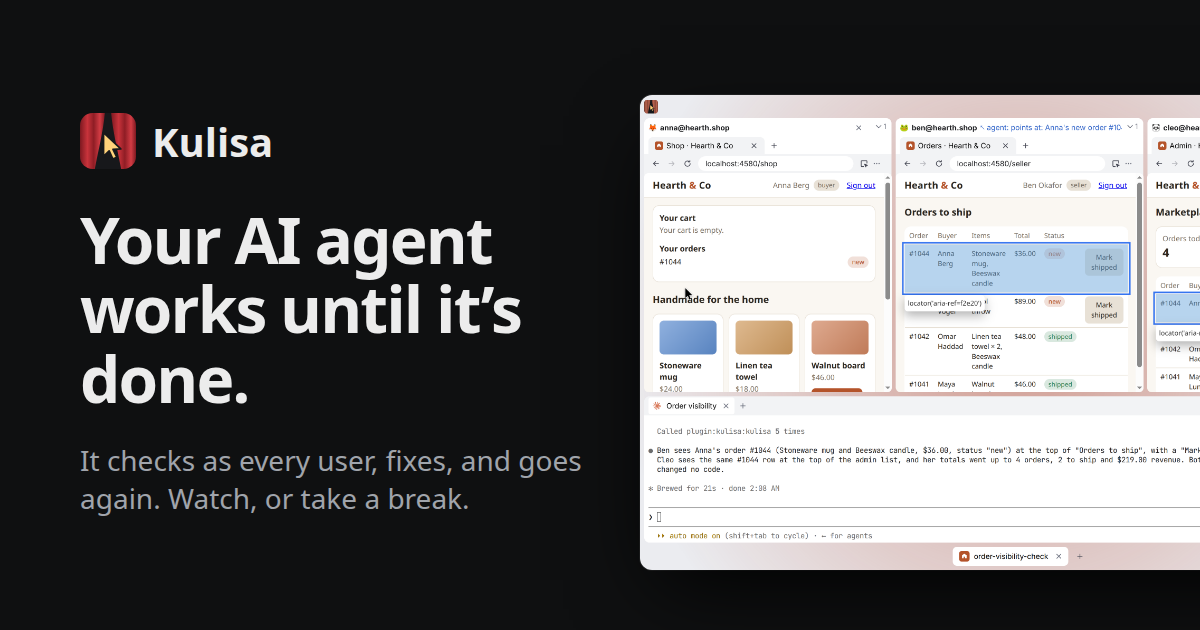
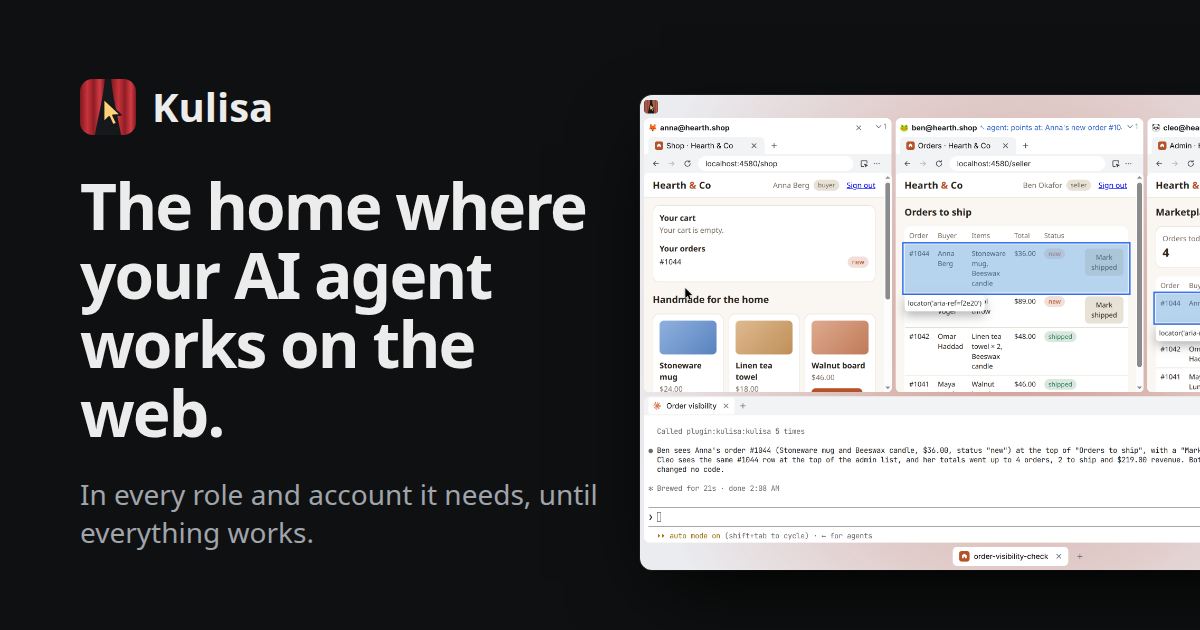
Search: hero pitch, title and description in the same words; the app and its FAQ as structured data; /llms.txt
- Hero: "Kulisa is the home where your AI agent works on the web." and the sub-line; the same words in <title>,
  the description and on the social card (og.png re-rendered)
- Structured data on the main page: SoftwareApplication (version and download from the latest release,
  screenshot, features, GitHub) and FAQPage; two FAQ questions in the words people search with
- /llms.txt: the page as plain text for AI assistants, built from the same content
- Section headings say in plain words what the metaphor says; the latest release is asked once per build
- CLAUDE.md records the pitch as the author's decision (2026-10-15); README on search engines and AI assistants

Changed region(s): [[0.0617, 0.1206, 0.4933, 0.6937], [0.0617, 0.7238, 0.4933, 0.8746]]

diff --git a/src/content/site.ts b/src/content/site.ts
@@ -31,11 +31,13 @@ export interface Feature extends Media {
   wide?: boolean;
 }
 
+// What a search engine shows (and an AI assistant reads): what Kulisa is, in plain words; the page's heading says the
+// same (hero), so a visitor from a search finds what they clicked.
 export const meta = {
-  title: 'Kulisa — your AI agent works until it’s done',
+  title: 'Kulisa — the home where your AI agent works on the web',
   description:
-    'Your AI agent works in your signed-in browsers, side by side: it checks the result as every user and fixes ' +
-    'until it works. Watch, or take a break. Free for Windows and Linux; macOS soon.',
+    'Your AI agent works in every role and account it needs, until everything works. Watch every step, or take a ' +
+    'break.',
 };
 
 export const links = {
@@ -62,11 +64,8 @@ export const downloads: { id: string; os: 'macos' | 'windows' | 'linux'; name: s
 export const logo = { mark: true };
 
 export const hero = {
-  pitch: 'Your AI agent works until it’s done. Watch every step, or take a break.',
-  sub:
-    'Kulisa puts several browsers side by side in one window, each signed in as a different person, and an AI agent ' +
-    'of your choice to work in them. It does the work, checks the result as every user — the buyer and the seller, ' +
-    'the sender and the receiver, the admin and the user — fixes what’s wrong, and goes again until it works.',
+  pitch: 'Kulisa is the home where your AI agent works on the web.',
+  sub: 'In every role and account it needs, until everything works. Watch every step, or take a break.',
   media: {
     image: 'hero-window.png',
     alt: 'The Kulisa window: a shop open as a buyer, a seller and an admin side by side. The agent placed an order as the buyer, ' +
@@ -238,6 +237,14 @@ export const faq = [
   {
     q: 'Is it free?',
     a: 'Yes. Kulisa is free.',
+  },
+  {
+    q: 'Can an AI agent test my web app as several users?',
+    a: 'Yes, that is what Kulisa is made for. Tell Claude Code or Codex what to build or check: it acts as one profile and checks the result as another (a message sent by one person must arrive for the other; an order placed by the buyer must show up for the seller), fixes what’s wrong, and checks again. You watch every step in the panes, or take a break.',
+  },
+  {
+    q: 'Can I be signed in to several accounts of one site at once?',
+    a: 'Yes. Each profile is a separate browser with its own sign-ins and cookies, so one site can be open as several accounts side by side, in one window: a buyer and a seller, an admin and a user, several clients’ accounts. You sign in to each once, by hand, and it stays signed in after a restart.',
   },
   {
     q: 'How do I install it?',

diff --git a/src/pages/llms.txt.ts b/src/pages/llms.txt.ts
@@ -1,0 +1,56 @@
+// /llms.txt (llmstxt.org): the page in plain text for AI assistants and their crawlers, built from the same content as
+// the page (src/content/site.ts), so it never says other than the page does.
+import type { APIRoute } from 'astro';
+import { hero, links, features, more, later, faq, forDevelopers } from '../content/site';
+import { latestDownloads } from '../lib/release';
+
+const text = (html: string) => html.replace(/<[^>]+>/g, '');
+
+export const GET: APIRoute = async ({ site }) => {
+  const { version, list } = await latestDownloads();
+  const home = site!.href;
+  const docs = new URL(links.docs, site).href;
+  const ready = list.filter((d) => d.url);
+  const soon = list.filter((d) => !d.url).map((d) => `${d.name} soon`);
+
+  const lines = [
+    '# Kulisa',
+    '',
+    `> ${hero.pitch} ${hero.sub}`,
+    '',
+    'A free desktop app. Each role or account is a browser profile with its own ' +
+      'sign-ins, cookies and tabs, shown side by side in one window. The AI agent you choose (Claude Code, Codex, or ' +
+      'another agent that runs in a terminal) works in them from a built-in terminal: it does the work, checks the ' +
+      'result as every user, fixes what’s wrong, and goes again. You sign in to real accounts yourself, by hand; ' +
+      'everything stays on your computer.',
+    '',
+    `Made first for developing web apps with several users at once (a buyer, a seller, an admin), and ` +
+      'good for any work in web apps as several people: testers, support, product managers, several clients’ accounts.',
+    '',
+    '## Links',
+    '',
+    `- [Kulisa](${home}): the website`,
+    `- [User guide](${docs}): projects, tasks, agents, profiles, signing in, the window, keyboard shortcuts`,
+    `- [Download](${links.releases}/latest): ${
+      ready.length ? `${ready.map((d) => d.name).join(', ')}${version ? `, version ${version}` : ''}${soon.length ? `; ${soon.join(', ')}` : ''}` : 'coming soon'
+    }`,
+    `- [GitHub](${links.repo}): the app’s repository, its releases and issues`,
+    '',
+    '## Features',
+    '',
+    ...[...features, ...more].map((f) => `- **${f.title}.** ${f.text}`),
+    '',
+    '## Coming later',
+    '',
+    ...later.map((f) => `- **${f.title}.** ${f.text}`),
+    '',
+    '## FAQ',
+    '',
+    ...faq.flatMap((item) => [`### ${item.q}`, '', text(item.a), '']),
+    '## For developers',
+    '',
+    ...forDevelopers.map((line) => `- ${text(line)}`),
+    '',
+  ];
+  return new Response(lines.join('\n'), { headers: { 'content-type': 'text/plain; charset=utf-8' } });
+};

diff --git a/src/lib/release.ts b/src/lib/release.ts
@@ -6,7 +6,11 @@ import { downloads, links } from '../content/site';
 // reached, so the build never fails over it: the buttons then lead to the releases page.
 export type Download = { id: string; os: string; name: string; url: string };
 
-export async function latestDownloads(): Promise<{ version: string | null; list: Download[] }> {
+// Asked once per build, however many places show it.
+let latest: Promise<{ version: string | null; list: Download[] }> | undefined;
+export const latestDownloads = () => (latest ??= fetchLatest());
+
+async function fetchLatest(): Promise<{ version: string | null; list: Download[] }> {
   const repo = new URL(links.repo).pathname.replace(/^\/|\/$/g, '');
   const token = process.env.GITHUB_TOKEN;
   let release: { tag_name: string; assets: { name: string; browser_download_url: string }[] } | null = null;

diff --git a/tools/og.html b/tools/og.html
@@ -6,6 +6,6 @@ h1{font-size:64px;line-height:1.08;letter-spacing:-.03em;margin:0}p{color:#a0a4a
 .s{position:absolute;left:640px;top:95px;width:760px;border-radius:12px;box-shadow:0 30px 80px -20px #000,0 0 0 1px #ffffff14}
 </style></head><body>
 <div class="t"><div class="w"><img src="../public/favicon.svg" width="56" height="56" alt="">Kulisa</div>
-<h1>Your AI agent works until it’s done.</h1><p>It checks as every user, fixes, and goes again. Watch, or take a break.</p></div>
+<h1>The home where your AI agent works on the web.</h1><p>In every role and account it needs, until everything works.</p></div>
 <img class="s" src="../src/assets/hero-window.png" alt="">
 </body></html>

diff --git a/CLAUDE.md b/CLAUDE.md
@@ -54,9 +54,12 @@ accounts — and developers too. Write so a non-programmer understands every lin
 One page. Suggested sections, adjust if a better order appears:
 
 1. **Hero:** the name, a one-line pitch, a short sub-line, the window screenshot, "Coming soon" + platforms.
-   The pitch (the author's, 2026-10-07): "Your AI agent works until it's done. Watch every step, or take a break."
-   The loop is the point: the agent does the work, checks the result as every user, fixes, and goes again. Before,
-   "Be every user of your web app at once."
+   The pitch (the author's, 2026-10-15): "Kulisa is the home where your AI agent works on the web." and the sub-line
+   "In every role and account it needs, until everything works. Watch every step, or take a break.": short, for
+   everyone who works on the web (not only developers: no buyer/seller in it), and the same words as the search
+   description (`meta`). The loop is the point: the agent does the work, checks the result as every user, fixes, and
+   goes again. Before, "Your AI agent works until it's done. Watch every step, or take a break." and earlier "Be every
+   user of your web app at once."
 2. **The problem:** testing anything where several people interact means a pile of browser windows, private
    tabs and sign-ins, and keeping the connections in your head.
 3. **How it works:** profiles (each its own signed-in person) → panes side by side → an agent you can watch and

diff --git a/README.md b/README.md
@@ -32,6 +32,12 @@ All copy, links and media slots are in `src/content/site.ts`:
 - **Logo:** the app's icon (from `kulisa/assets/icon.svg`, copied to `tools/app-icon.svg`) next to a text
   wordmark: `src/components/Mark.astro`, `public/favicon.svg`. `logo.mark: false` hides the icon.
 
+**For search engines and AI assistants:** the page's `<title>` and description are `meta` in `src/content/site.ts`,
+in the words people search with (the pitch stays the page's heading). The main page (`src/pages/index.astro`)
+describes the app as structured data (schema.org `SoftwareApplication`: version and download from the latest release)
+and its FAQ (`FAQPage`), in the layout's `head` slot; `/llms.txt` (`src/pages/llms.txt.ts`) is the page as plain text
+for AI assistants, built from the same content.
+
 `public/og.png` (the social card) and the icons are rendered from `tools/`: `tools/og.html` with headless
 Chrome at 1200×630, `node tools/favicon-ico.mjs` for `favicon.ico`, `apple-touch-icon.png` from `tools/touch.svg`;
 `tools/icon.html` shows `public/favicon.svg` full-window, for rendering it to PNG with headless Chrome.
